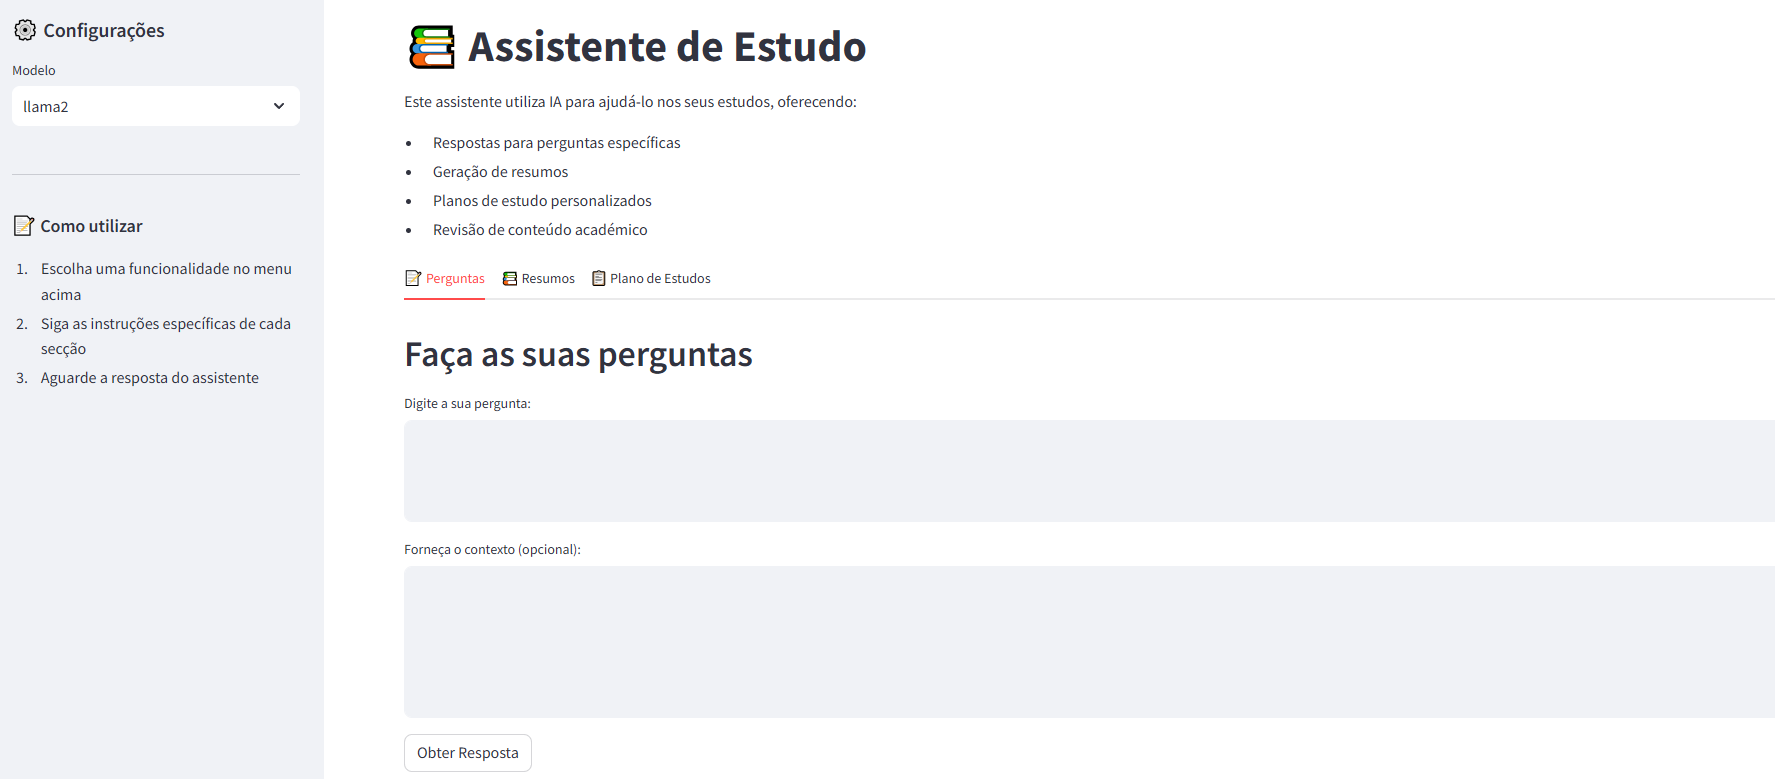
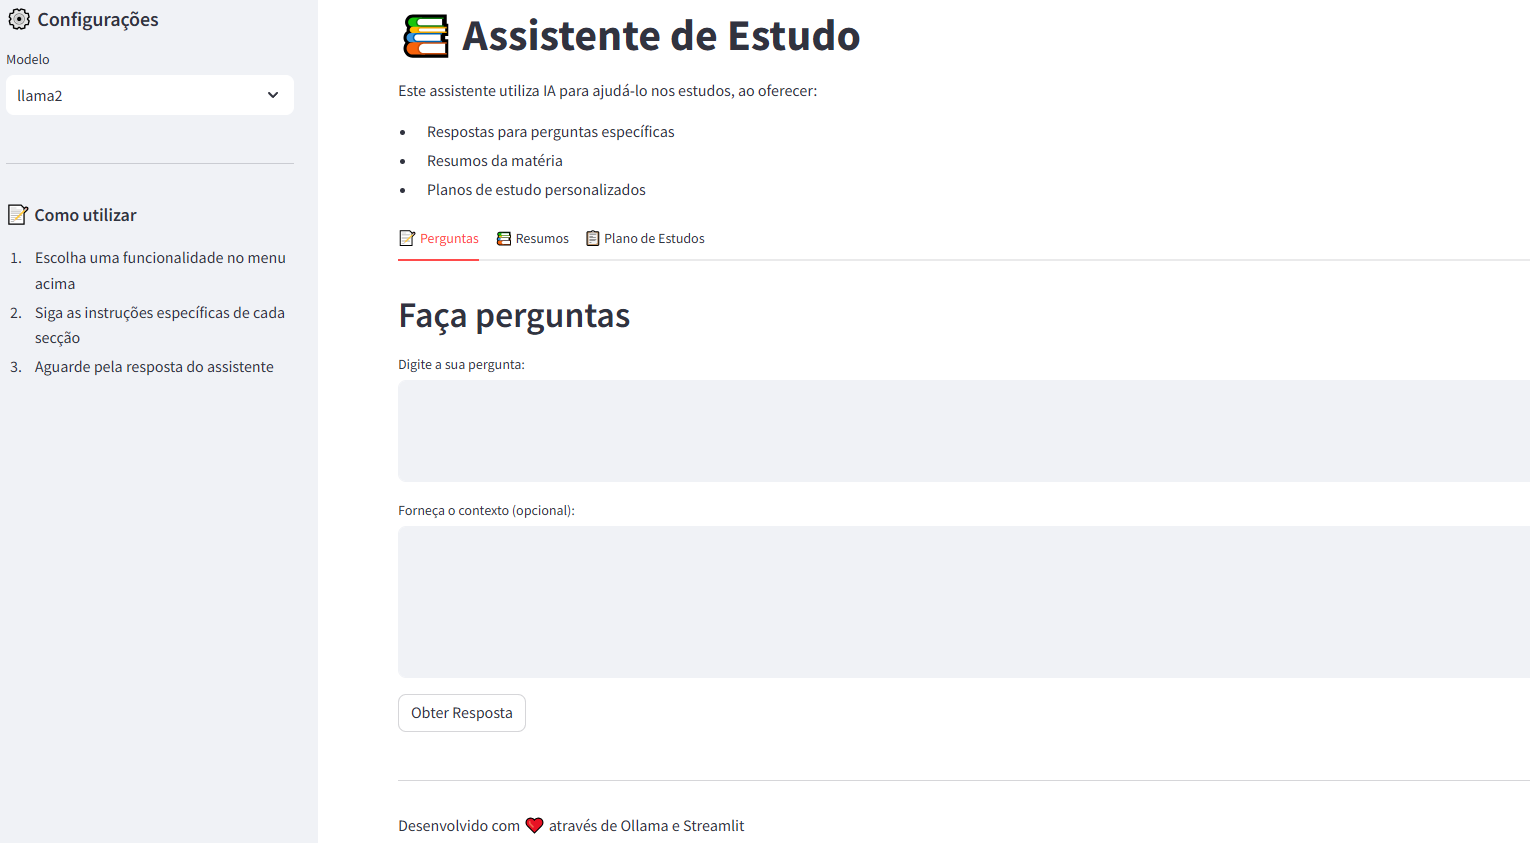
Atualizar aplicação - Melhorar interface e funcionalidades

diff --git a/app.py b/app.py
@@ -20,11 +20,10 @@ client = get_ollama_client()
 # Título e descrição
 st.title("📚 Assistente de Estudo")
 st.markdown("""
-Este assistente utiliza IA para ajudá-lo nos seus estudos, oferecendo:
+Este assistente utiliza IA para ajudá-lo nos estudos, ao oferecer:
 - Respostas para perguntas específicas
-- Geração de resumos
+- Resumos da matéria
 - Planos de estudo personalizados
-- Revisão de conteúdo académico
 """)
 
 # Sidebar para configurações
@@ -42,14 +41,14 @@ with st.sidebar:
     st.markdown("""
     1. Escolha uma funcionalidade no menu acima
     2. Siga as instruções específicas de cada secção
-    3. Aguarde a resposta do assistente
+    3. Aguarde pela resposta do assistente
     """)
 
 # Funcionalidades principais
 tab1, tab2, tab3 = st.tabs(["📝 Perguntas", "📚 Resumos", "📋 Plano de Estudos"])
 
 with tab1:
-    st.header("Faça as suas perguntas")
+    st.header("Faça perguntas")
     question = st.text_area("Digite a sua pergunta:", height=100)
     context = st.text_area("Forneça o contexto (opcional):", height=150)
     
@@ -125,4 +124,4 @@ with tab3:
 
 # Rodapé
 st.markdown("---")
-st.markdown("Desenvolvido com ❤ utilizando Ollama e Streamlit") 
+st.markdown("Desenvolvido com ❤ através de Ollama e Streamlit") 
